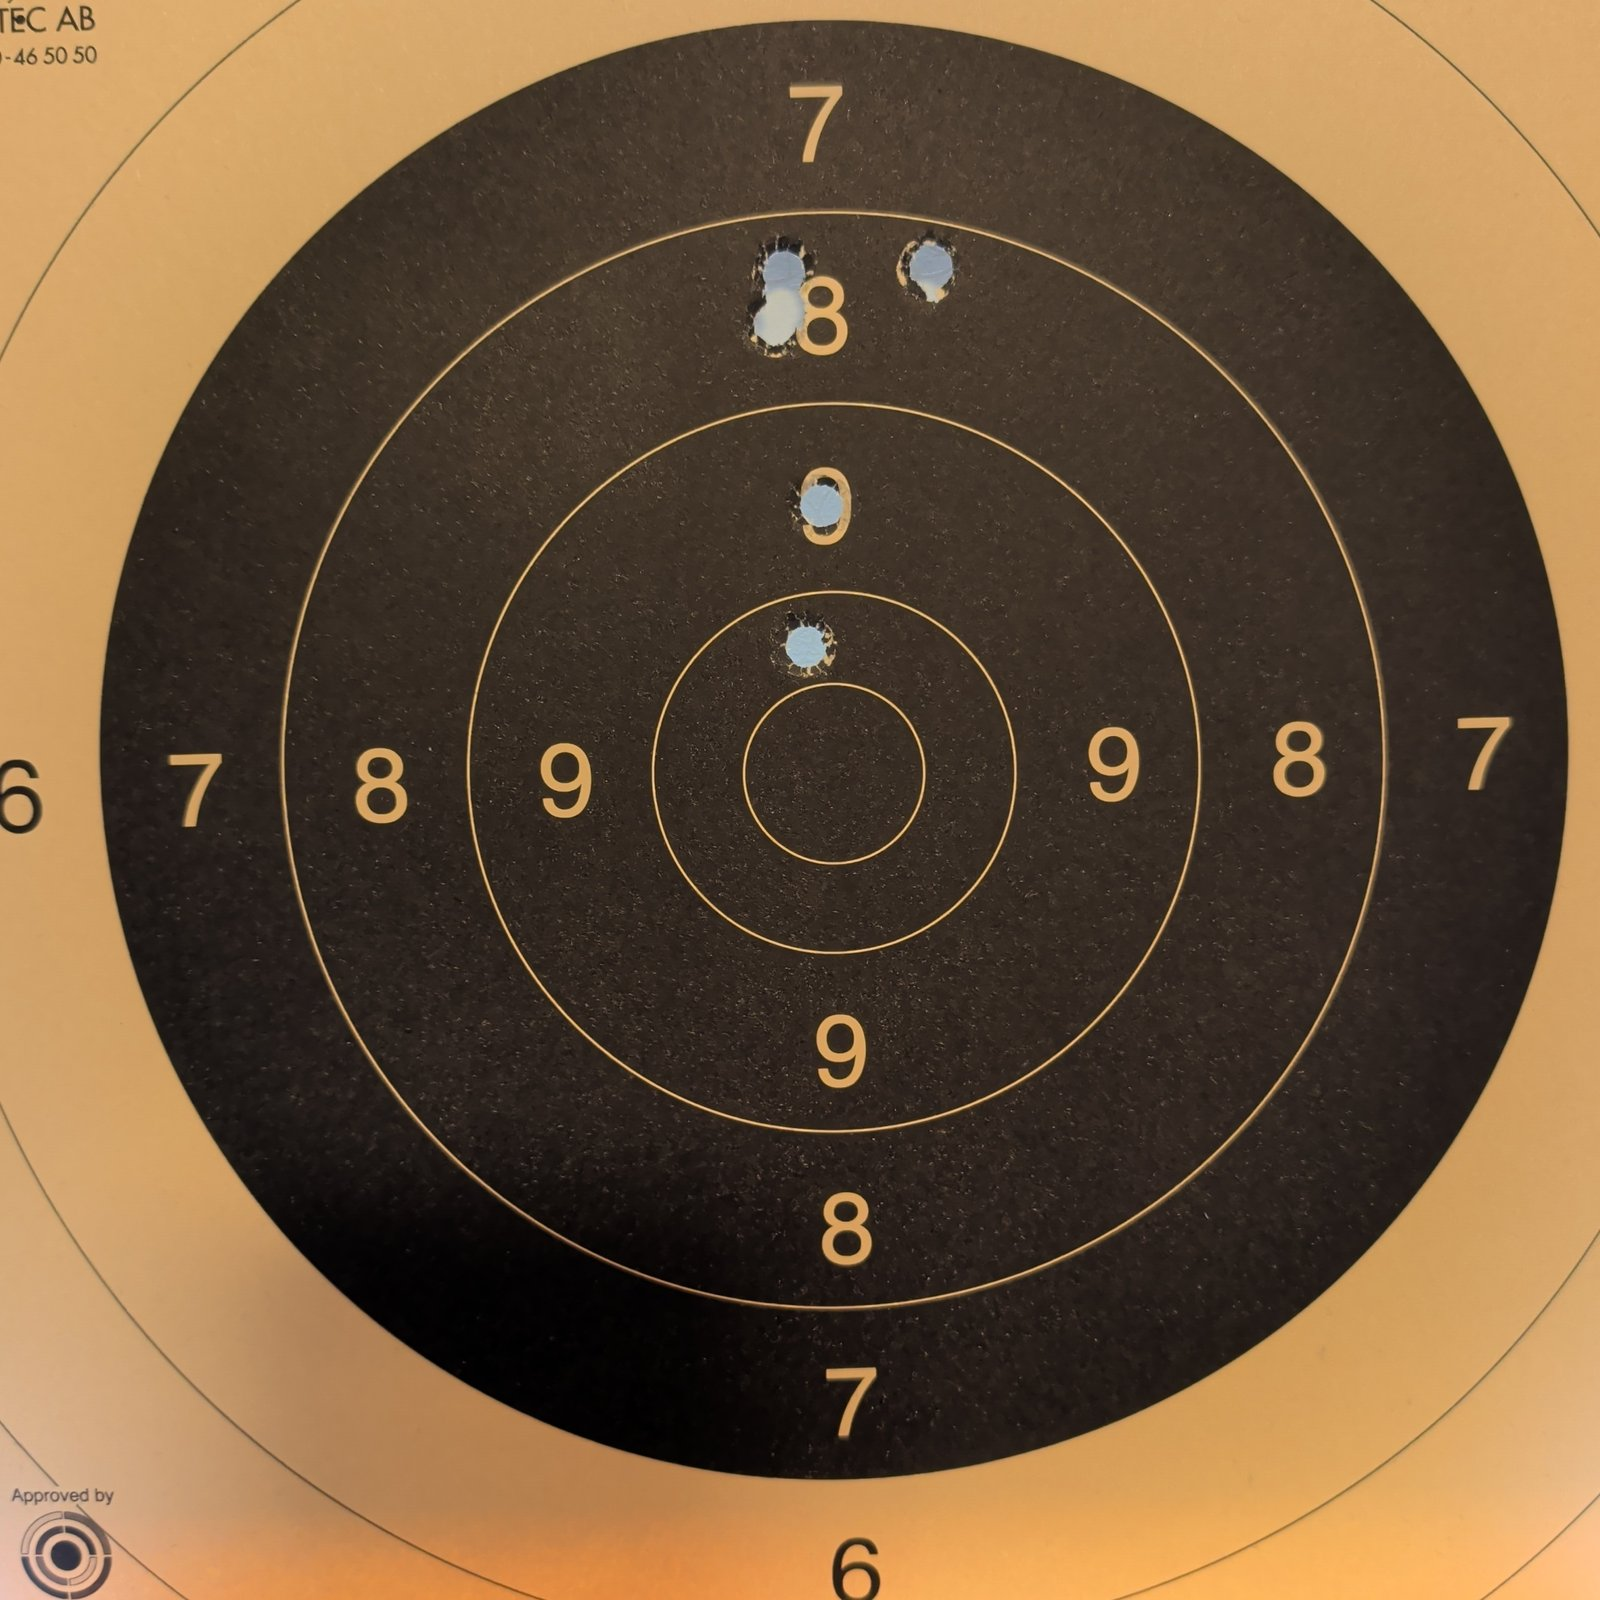
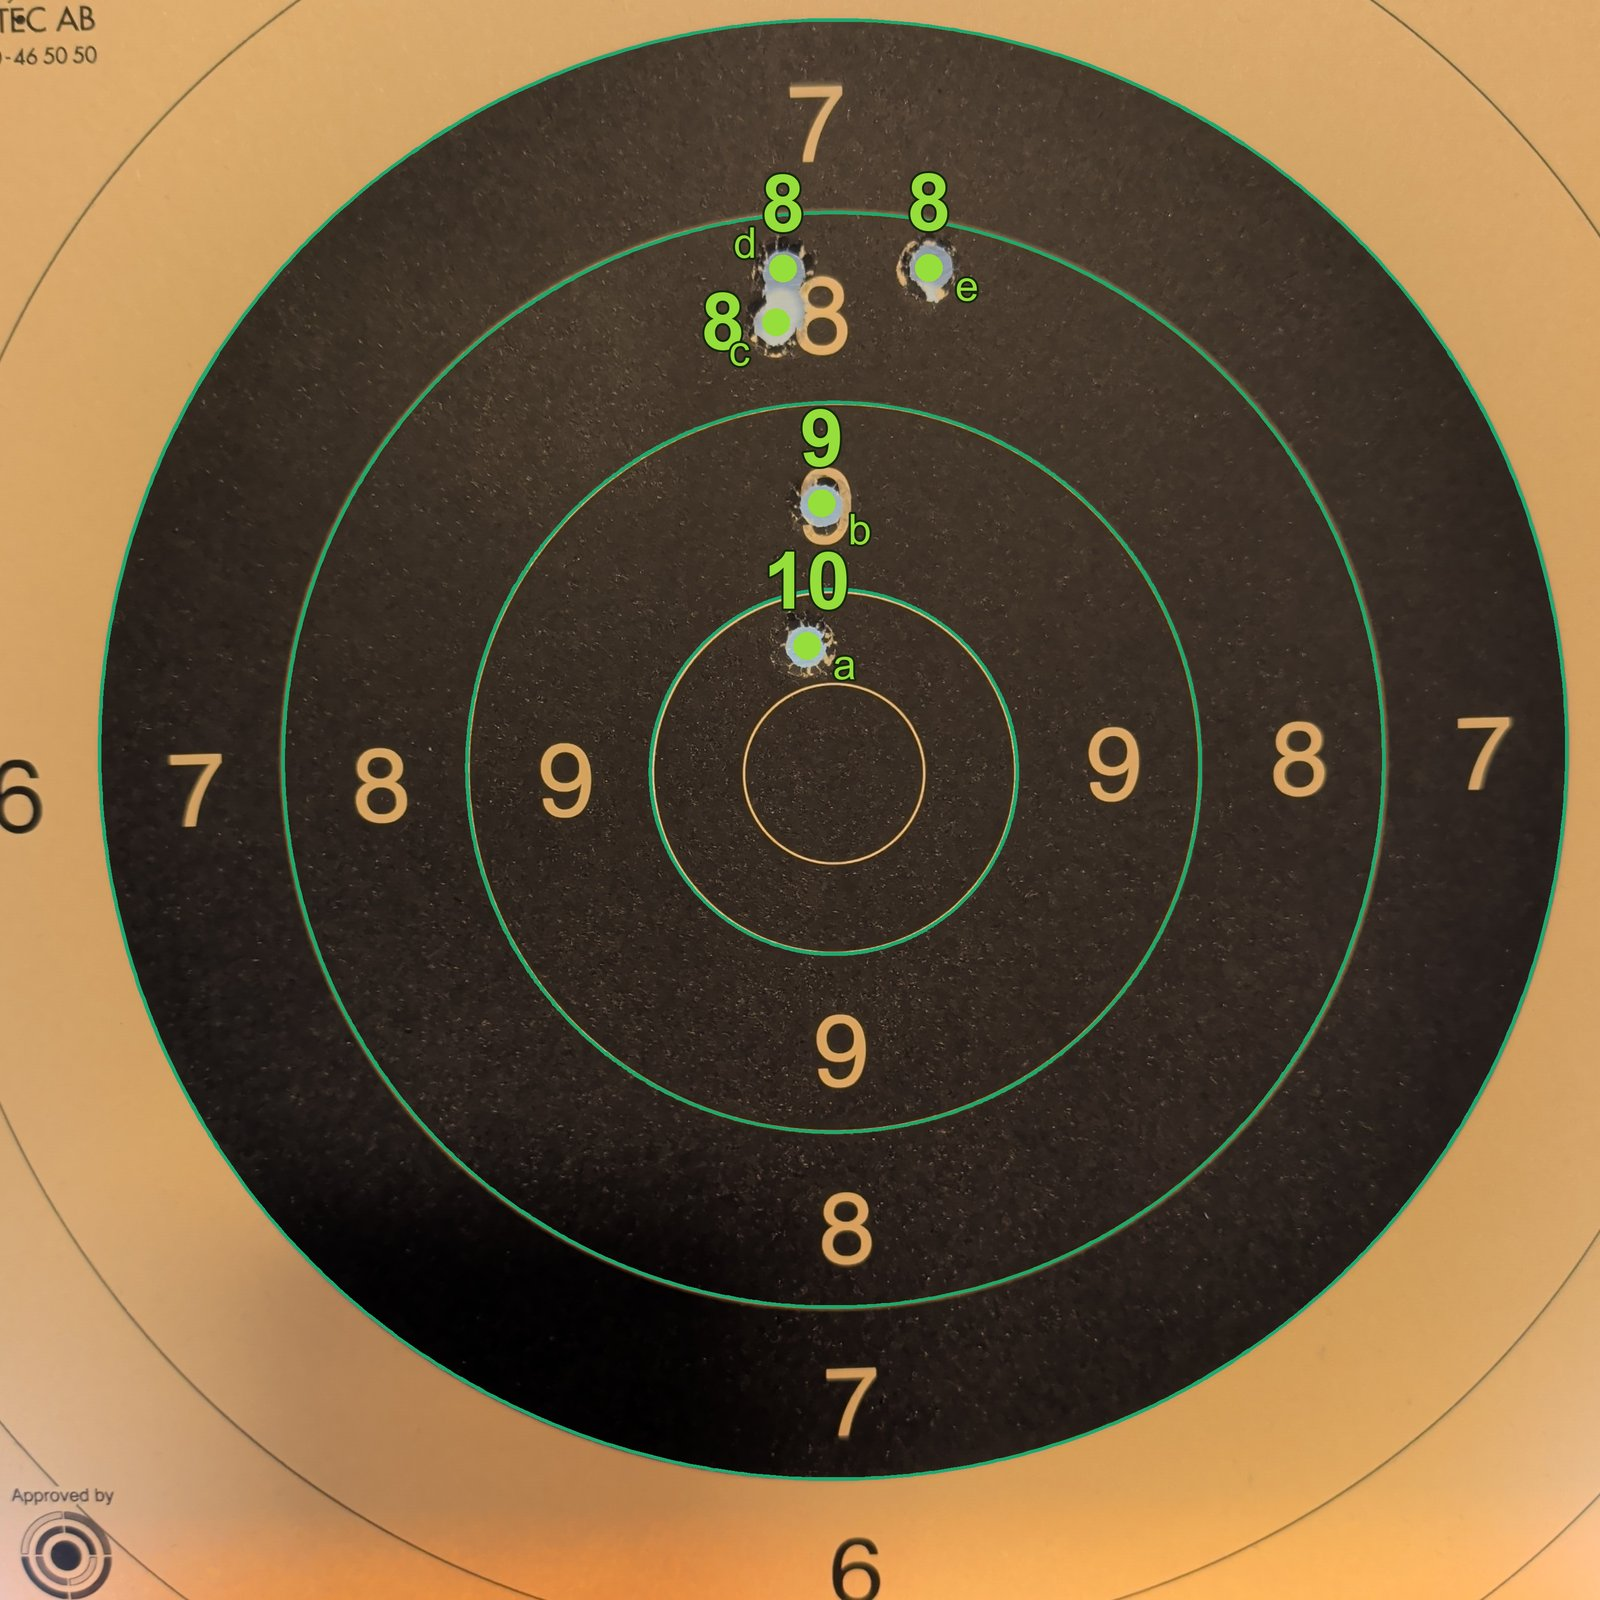
Markera: the latest series with its holes, scores and rings drawn on it

diff --git a/projects/markera.html b/projects/markera.html
@@ -95,12 +95,12 @@
         <h2>A scored series from one photo</h2>
         <p>Together the two parts score the series on the spot. The five best hits pre-fill the pickers and stay editable, because the shooter is the final authority on their own series. When the ring fit looks implausible, the app leaves the scoring to the shooter.</p>
       </div>
-      <button class="zoom" popovertarget="markera-full-3" aria-label="Show full size: A .38 series of five holes on a precision target, scored 43">
-        <img class="media" src="../assets/markera/series-latest.jpg" alt="A .38 series of five holes on a precision target, scored 43">
+      <button class="zoom" popovertarget="markera-full-3" aria-label="Show full size: A .38 series of five holes, each marked with its score: 10, 9, 8, 8 and 8 for 43">
+        <img class="media" src="../assets/markera/series-latest.jpg" alt="A .38 series of five holes, each marked with its score: 10, 9, 8, 8 and 8 for 43">
       </button>
       <div id="markera-full-3" class="lightbox" popover>
         <button class="zoom-out" popovertarget="markera-full-3" popovertargetaction="hide" aria-label="Close">
-          <img src="../assets/markera/series-latest.jpg" alt="A .38 series of five holes on a precision target, scored 43, full size">
+          <img src="../assets/markera/series-latest.jpg" alt="A .38 series of five holes, each marked with its score: 10, 9, 8, 8 and 8 for 43, full size">
         </button>
       </div>
     </section>
